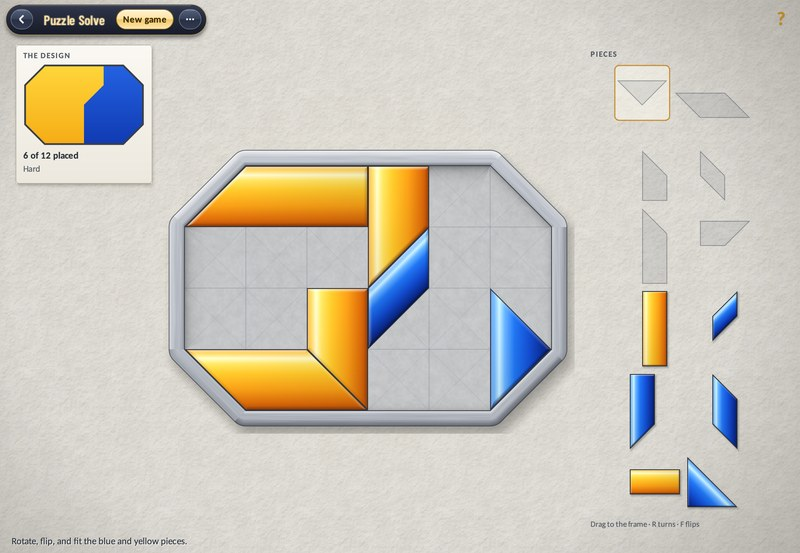
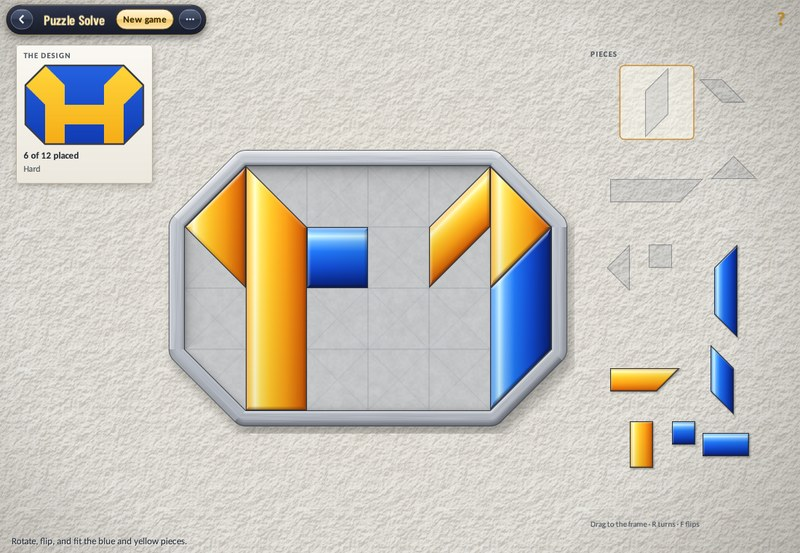
Draw Puzzle Solve's picture first, then cut it
A design is now grown as a yellow figure on blue, usually with a mirror (or a
half or quarter turn, or the diagonal) so it reads as an emblem, its stepped
corners filled or cut on the diagonal. The frame is then cut along the picture,
one colour per piece. Plain splits, bare stripes and crumbs are refused. The
tangram keeps its own cut and colouring; games take about 0.3 ms to deal.

diff --git a/shared/puzzles/puzzles.cpp b/shared/puzzles/puzzles.cpp
@@ -1088,13 +1088,6 @@ std::vector<Point2> PuzzleGame::solve_frame() const {
                              atom % 4});
     return solve_outline(cells);
 }
-// A Puzzle Solve game is a real tiling. The generator picks a frame, cuts it into pieces of
-// one family by merging neighboring half squares (or whole cells) while the merged piece
-// remains a shape of that family, colors a connected group of pieces yellow and the rest
-// blue, and turns every piece to a new orientation for the tray. The cut itself is the
-// witness: each piece's tray shape, turned by its witness orientation, lands exactly where
-// it was cut. Easy games are short lessons in one idea each: turning, mirroring, or
-// slanted cuts. Medium has six to eight pieces; Hard nine to twelve in larger frames.
 namespace {
 // Orders piece numbers by size, smallest first; equal sizes keep their order.
 struct SmallerPiece {
@@ -1125,16 +1118,93 @@ int bit_count(int mask) {
         ++bits;
     return bits;
 }
+// The symmetries a design can have, as maps of atoms: mirrored left to right, top to
+// bottom, both (a half turn), a quarter turn and a mirror in the diagonal. The last two
+// need a square frame.
+enum SolveSymmetry { mirror_x = 0, mirror_y = 1, half_turn = 2, quarter_turn = 3, diagonal = 4 };
+int map_atom(int atom, int symmetry, int columns, int rows) {
+    const int cell = atom / 4, wedge = atom % 4;
+    const int x = cell % columns, y = cell / columns;
+    // wedges: 0 top, 1 right, 2 bottom, 3 left
+    switch (symmetry) {
+    case mirror_x: {
+        const int flipped[] = {0, 3, 2, 1};
+        return (y * columns + columns - 1 - x) * 4 + flipped[wedge];
+    }
+    case mirror_y: {
+        const int flipped[] = {2, 1, 0, 3};
+        return ((rows - 1 - y) * columns + x) * 4 + flipped[wedge];
+    }
+    case half_turn:
+        return ((rows - 1 - y) * columns + columns - 1 - x) * 4 + (wedge + 2) % 4;
+    case quarter_turn:
+        return (x * columns + columns - 1 - y) * 4 + (wedge + 1) % 4;
+    default: {
+        const int flipped[] = {3, 2, 1, 0};
+        return (x * columns + y) * 4 + flipped[wedge];
+    }
+    }
+}
+// Whether the frame looks the same under a symmetry, so a design can share it.
+bool frame_keeps(int symmetry, int columns, int rows, const std::vector<bool>& inside) {
+    if ((symmetry == quarter_turn || symmetry == diagonal) && columns != rows)
+        return false;
+    for (int a = 0; a < columns * rows * 4; ++a)
+        if (inside[static_cast<std::size_t>(a)] !=
+            inside[static_cast<std::size_t>(map_atom(a, symmetry, columns, rows))])
+            return false;
+    return true;
+}
+// Atoms joined across an edge, counted once each: how long the picture's outline is.
+int outline_length(const std::vector<int>& colour, int columns, int rows) {
+    int length = 0;
+    for (int a = 0; a < columns * rows * 4; ++a) {
+        if (!colour[static_cast<std::size_t>(a)])
+            continue;
+        for (int n : atom_neighbors(a, columns, rows))
+            if (n > a && colour[static_cast<std::size_t>(n)] &&
+                colour[static_cast<std::size_t>(n)] != colour[static_cast<std::size_t>(a)])
+                ++length;
+    }
+    return length;
+}
+// The connected areas of each colour: how many, and the smallest one's size in atoms.
+void colour_areas(const std::vector<int>& colour, int columns, int rows, int& areas, int& smallest) {
+    std::vector<bool> seen(colour.size(), false);
+    areas = 0;
+    smallest = 1 << 20;
+    for (int a = 0; a < static_cast<int>(colour.size()); ++a) {
+        if (!colour[static_cast<std::size_t>(a)] || seen[static_cast<std::size_t>(a)])
+            continue;
+        ++areas;
+        int size = 0;
+        std::vector<int> stack{a};
+        seen[static_cast<std::size_t>(a)] = true;
+        while (!stack.empty()) {
+            const int at = stack.back();
+            stack.pop_back();
+            ++size;
+            for (int n : atom_neighbors(at, columns, rows))
+                if (n >= 0 && !seen[static_cast<std::size_t>(n)] &&
+                    colour[static_cast<std::size_t>(n)] == colour[static_cast<std::size_t>(a)]) {
+                    seen[static_cast<std::size_t>(n)] = true;
+                    stack.push_back(n);
+                }
+        }
+        smallest = std::min(smallest, size);
+    }
+}
 } // namespace
 void PuzzleGame::shuffle_values(std::vector<int>& values) {
     for (int i = static_cast<int>(values.size()) - 1; i > 0; --i)
         std::swap(values[static_cast<std::size_t>(i)],
                   values[static_cast<std::size_t>(random(i + 1))]);
 }
-// A Puzzle Solve game is a real tiling. The generator picks a frame, cuts it into pieces of
-// one family by merging neighboring half squares (or whole cells) while each merged piece
-// remains a shape of that family, colors a connected group of pieces yellow and the rest
-// blue, and turns every piece to a new orientation for the tray. The cut is the witness:
+// A Puzzle Solve game is a real tiling. The generator picks a frame, draws a yellow figure
+// on blue (design_solve), cuts the frame into pieces of one family by merging neighboring
+// half squares (or whole cells) of one colour while each merged piece remains a shape of
+// that family, and turns every piece to a new orientation for the tray. (The tangram keeps
+// its own cut and has a connected group of its pieces coloured yellow.) The cut is the witness:
 // each tray shape, turned by its witness orientation, lands exactly where it was cut.
 // Easy games are short lessons in one idea each: turning, mirroring, or slanted cuts.
 // Medium cuts six to eight pieces; Hard nine to twelve, mostly in larger frames.
@@ -1191,6 +1261,152 @@ bool PuzzleGame::generate_solve() {
                   std::to_string(state.aux[93]) + " pieces.";
     return true;
 }
+// A picture worth rebuilding: a yellow figure on blue (atoms 2 and 1; 0 outside the frame).
+// It is grown cell by cell from one or two seeds, the same everywhere a chosen symmetry
+// carries it (a mirror, both mirrors, a half or quarter turn, the diagonal), and its
+// stepped corners are then filled or cut on the diagonal, the same way all round so the
+// symmetry holds. Pictures that are a plain split, scattered into crumbs or nearly one
+// colour are refused, and the caller draws again.
+bool PuzzleGame::design_solve(int columns, int rows, const std::vector<bool>& inside,
+                              bool whole, std::vector<int>& colour) {
+    const int cells = columns * rows, atoms = cells * 4;
+    // The symmetry: usually a mirror, as most emblems have; sometimes a turn or none.
+    std::vector<int> symmetries;
+    const int roll = random(20);
+    if (roll < 8)
+        symmetries = {mirror_x};
+    else if (roll < 10)
+        symmetries = {mirror_x, mirror_y};
+    else if (roll < 12)
+        symmetries = {half_turn};
+    else if (roll < 15)
+        symmetries = {quarter_turn};
+    else if (roll < 17)
+        symmetries = {diagonal};
+    for (int symmetry : symmetries)
+        if (!frame_keeps(symmetry, columns, rows, inside))
+            symmetries = {mirror_x};
+    if (!symmetries.empty() && !frame_keeps(symmetries[0], columns, rows, inside))
+        symmetries.clear();
+    // Cells, and each cell's orbit under the symmetry.
+    std::vector<bool> present(static_cast<std::size_t>(cells), false);
+    int frame_atoms = 0;
+    for (int a = 0; a < atoms; ++a)
+        if (inside[static_cast<std::size_t>(a)]) {
+            present[static_cast<std::size_t>(a / 4)] = true;
+            ++frame_atoms;
+        }
+    std::vector<bool> yellow(static_cast<std::size_t>(cells), false);
+    const double target = (36 + random(20)) / 100.0;
+    int yellow_atoms = 0;
+    const int seeds = random(10) < 7 ? 1 : 2;
+    for (int round = 0; round < 64 && yellow_atoms < target * frame_atoms; ++round) {
+        // A seed anywhere, or a cell beside the figure, liked more for each yellow side.
+        std::vector<int> choices;
+        for (int c = 0; c < cells; ++c) {
+            if (!present[static_cast<std::size_t>(c)] || yellow[static_cast<std::size_t>(c)])
+                continue;
+            const int x = c % columns, y = c / columns;
+            int sides = 0;
+            sides += x > 0 && yellow[static_cast<std::size_t>(c - 1)];
+            sides += x + 1 < columns && yellow[static_cast<std::size_t>(c + 1)];
+            sides += y > 0 && yellow[static_cast<std::size_t>(c - columns)];
+            sides += y + 1 < rows && yellow[static_cast<std::size_t>(c + columns)];
+            const bool seeding = round < seeds;
+            if (seeding || sides > 0)
+                for (int w = 0; w < (seeding ? 1 : sides * sides); ++w)
+                    choices.push_back(c);
+        }
+        if (choices.empty())
+            break;
+        std::vector<int> orbit{choices[static_cast<std::size_t>(random(static_cast<int>(choices.size())))] * 4};
+        for (std::size_t i = 0; i < orbit.size(); ++i)
+            for (int symmetry : symmetries) {
+                const int image = map_atom(orbit[i], symmetry, columns, rows) / 4 * 4;
+                if (std::find(orbit.begin(), orbit.end(), image) == orbit.end())
+                    orbit.push_back(image);
+            }
+        for (int atom : orbit) {
+            if (yellow[static_cast<std::size_t>(atom / 4)])
+                continue;
+            yellow[static_cast<std::size_t>(atom / 4)] = true;
+            for (int w = 0; w < 4; ++w)
+                yellow_atoms += inside[static_cast<std::size_t>(atom + w)] ? 1 : 0;
+        }
+    }
+    colour.assign(static_cast<std::size_t>(atoms), 0);
+    for (int a = 0; a < atoms; ++a)
+        if (inside[static_cast<std::size_t>(a)])
+            colour[static_cast<std::size_t>(a)] = yellow[static_cast<std::size_t>(a / 4)] ? 2 : 1;
+    // The diagonal corners: a blue cell in a yellow nook takes the nook's half (filled),
+    // and a yellow cell standing out at a corner loses that half (cut). Whole-cell pieces
+    // keep the steps.
+    const int style = whole ? 0 : 1 + random(3);
+    const std::vector<int> before = colour;
+    for (int c = 0; c < cells && style; ++c) {
+        bool full = true;
+        for (int w = 0; w < 4; ++w)
+            full = full && inside[static_cast<std::size_t>(c * 4 + w)];
+        if (!full)
+            continue;
+        const int x = c % columns, y = c / columns;
+        // the colour across each side (0 off the frame), top, right, bottom, left
+        int side[4];
+        const int across[4] = {y > 0 ? (c - columns) * 4 + 2 : -1, x + 1 < columns ? (c + 1) * 4 + 3 : -1,
+                               y + 1 < rows ? (c + columns) * 4 : -1, x > 0 ? (c - 1) * 4 + 1 : -1};
+        for (int k = 0; k < 4; ++k)
+            side[k] = across[k] < 0 ? 0 : before[static_cast<std::size_t>(across[k])];
+        const int own = before[static_cast<std::size_t>(c * 4)];
+        for (int k = 0; k < 4; ++k) {
+            // the corner between side k and side k + 1; the other two sides face away
+            const int a = k, b = (k + 1) % 4, c2 = (k + 2) % 4, d = (k + 3) % 4;
+            const bool fill = (style & 1) && own == 1 && side[a] == 2 && side[b] == 2 &&
+                              side[c2] != 2 && side[d] != 2;
+            const bool cut = (style & 2) && own == 2 && side[a] != 2 && side[b] != 2 &&
+                             side[c2] == 2 && side[d] == 2;
+            if (fill || cut) {
+                colour[static_cast<std::size_t>(c * 4 + a)] = fill ? 2 : 1;
+                colour[static_cast<std::size_t>(c * 4 + b)] = fill ? 2 : 1;
+            }
+        }
+    }
+    // Worth rebuilding: a fair share of each colour, an outline with some shape, and no
+    // crumbs too small for a piece.
+    int yellow_share = 0;
+    for (int a = 0; a < atoms; ++a)
+        yellow_share += colour[static_cast<std::size_t>(a)] == 2;
+    const double share = static_cast<double>(yellow_share) / frame_atoms;
+    if (share < .28 || share > .62)
+        return false;
+    const int length = outline_length(colour, columns, rows);
+    if (length < columns + rows + (cells > 9 ? 2 : 0) || length > 3 * (columns + rows))
+        return false;
+    int areas = 0, smallest = 0;
+    colour_areas(colour, columns, rows, areas, smallest);
+    if (areas > 6 || smallest < 4)
+        return false;
+    // Not just stripes: some row and some column of the frame holds both colours.
+    bool mixed_row = false, mixed_column = false;
+    for (int y = 0; y < rows; ++y)
+        for (int x = 0; x < columns; ++x)
+            for (int w = 0; w < 4; ++w) {
+                const int a = (y * columns + x) * 4 + w;
+                const int here = colour[static_cast<std::size_t>(a)];
+                if (!here)
+                    continue;
+                for (int x2 = 0; x2 < columns && !mixed_row; ++x2)
+                    for (int w2 = 0; w2 < 4; ++w2) {
+                        const int other = colour[static_cast<std::size_t>((y * columns + x2) * 4 + w2)];
+                        mixed_row = mixed_row || (other && other != here);
+                    }
+                for (int y2 = 0; y2 < rows && !mixed_column; ++y2)
+                    for (int w2 = 0; w2 < 4; ++w2) {
+                        const int other = colour[static_cast<std::size_t>((y2 * columns + x) * 4 + w2)];
+                        mixed_column = mixed_column || (other && other != here);
+                    }
+            }
+    return mixed_row && mixed_column;
+}
 bool PuzzleGame::cut_solve(int frame, int family, int count, int lesson) {
     const SolveFrameShape shape = solve_frame_shape(frame);
     const int columns = shape.columns, rows = shape.rows, atoms = columns * rows * 4;
@@ -1203,7 +1419,14 @@ bool PuzzleGame::cut_solve(int frame, int family, int count, int lesson) {
         frame_atoms += inside[static_cast<std::size_t>(a)] ? 1 : 0;
     }
     const int max_atoms = std::clamp(frame_atoms * 2 / count, 8, 32);
+    std::vector<int> design;
     for (int attempt = 0; attempt < 400; ++attempt) {
+        // The picture comes first and the cut follows it; the tangram keeps its own cut
+        // and is coloured afterwards.
+        design.clear();
+        if (family != tangram && attempt < 300 &&
+            !design_solve(columns, rows, inside, family == blocks, design))
+            continue;
         // Units: whole cells for blocks, half squares otherwise; a cell crossed by the
         // frame's edge keeps its inside half. The tangram is cut once and for all.
         std::vector<std::vector<int>> pieces;
@@ -1212,8 +1435,22 @@ bool PuzzleGame::cut_solve(int frame, int family, int count, int lesson) {
             for (int w = 0; w < 4; ++w)
                 if (inside[static_cast<std::size_t>(cell * 4 + w)])
                     present.push_back(cell * 4 + w);
+            const bool two_colours =
+                present.size() == 4 &&
+                design[static_cast<std::size_t>(cell * 4)] != design[static_cast<std::size_t>(cell * 4 + 2)];
+            const bool split = present.size() == 4 &&
+                               (two_colours || design[static_cast<std::size_t>(cell * 4)] !=
+                                                   design[static_cast<std::size_t>(cell * 4 + 1)] ||
+                                design[static_cast<std::size_t>(cell * 4)] !=
+                                    design[static_cast<std::size_t>(cell * 4 + 3)]);
             if (present.size() == 4 && family == blocks) {
                 pieces.push_back(present);
+            } else if (split) {
+                // The picture halves this cell on a diagonal: each half keeps its colour.
+                const bool top_with_right = design[static_cast<std::size_t>(cell * 4)] ==
+                                            design[static_cast<std::size_t>(cell * 4 + 1)];
+                pieces.push_back({cell * 4, cell * 4 + (top_with_right ? 1 : 3)});
+                pieces.push_back({cell * 4 + 2, cell * 4 + (top_with_right ? 3 : 1)});
             } else if (present.size() == 4) {
                 // Top with right and bottom with left, or top with left and right with bottom.
                 const int turn = random(2);
@@ -1263,6 +1500,10 @@ bool PuzzleGame::cut_solve(int frame, int family, int count, int lesson) {
                 for (int b : partners) {
                     std::vector<int> joined = pieces[static_cast<std::size_t>(a)];
                     const std::vector<int>& other = pieces[static_cast<std::size_t>(b)];
+                    // a piece is one colour of the picture
+                    if (!design.empty() &&
+                        design[static_cast<std::size_t>(joined[0])] != design[static_cast<std::size_t>(other[0])])
+                        continue;
                     joined.insert(joined.end(), other.begin(), other.end());
                     if (!allowed_piece(joined, family, columns, max_atoms))
                         continue;
@@ -1278,20 +1519,23 @@ bool PuzzleGame::cut_solve(int frame, int family, int count, int lesson) {
             if (!merged)
                 break;
         }
-        if (live != count)
+        // A picture may leave one piece more than asked, never more than the level allows
+        // (Easy five, Medium eight, Hard twelve).
+        const int most = count <= 5 ? 5 : count <= 8 ? 8 : 12;
+        if (live != count && !(!design.empty() && live == count + 1 && live <= most))
             continue;
         std::vector<std::vector<int>> cut;
         for (const std::vector<int>& p : pieces)
             if (!p.empty())
                 cut.push_back(p);
-        if (!finish_solve(cut, columns, rows, lesson))
+        if (!finish_solve(cut, columns, rows, lesson, design))
             continue;
         state.aux[88] = columns;
         state.aux[89] = rows;
         state.aux[90] = frame;
         state.aux[91] = lesson;
         state.aux[92] = family;
-        state.aux[93] = count;
+        state.aux[93] = live;
         state.aux[95] = 4;
         return true;
     }
@@ -1300,7 +1544,7 @@ bool PuzzleGame::cut_solve(int frame, int family, int count, int lesson) {
 // Checks a cut against its lesson, colors it, and records the picture, the tray shapes
 // and the witness.
 bool PuzzleGame::finish_solve(const std::vector<std::vector<int>>& cut, int columns, int rows,
-                              int lesson) {
+                              int lesson, const std::vector<int>& design) {
     const int count = static_cast<int>(cut.size());
     if (count < 2 || count > 12)
         return false;
@@ -1337,7 +1581,17 @@ bool PuzzleGame::finish_solve(const std::vector<std::vector<int>>& cut, int colu
     const int all = (1 << count) - 1;
     const double low = lesson >= 0 ? .25 : .3, high = lesson >= 0 ? .75 : .6;
     std::vector<int> colorings;
-    for (int mask = 1; mask < all; ++mask) {
+    if (!design.empty()) {
+        // The picture was drawn first: each piece already has its colour.
+        int mask = 0;
+        for (int p = 0; p < count; ++p)
+            if (design[static_cast<std::size_t>(cut[static_cast<std::size_t>(p)][0])] == 2)
+                mask |= 1 << p;
+        if (mask == 0 || mask == all)
+            return false;
+        colorings.push_back(mask);
+    }
+    for (int mask = 1; mask < all && design.empty(); ++mask) {
         const int yellow_pieces = bit_count(mask);
         if (yellow_pieces < 2 || count - yellow_pieces < 2)
             continue;

diff --git a/shared/puzzles/puzzles.hpp b/shared/puzzles/puzzles.hpp
@@ -144,9 +144,11 @@ class PuzzleGame {
     void thaw();
     void generate_atoms();
     bool generate_solve();
+    bool design_solve(int columns, int rows, const std::vector<bool>& inside, bool whole,
+                      std::vector<int>& colour);
     bool cut_solve(int frame, int family, int count, int lesson);
     bool finish_solve(const std::vector<std::vector<int>>& cut, int columns, int rows,
-                      int lesson);
+                      int lesson, const std::vector<int>& design);
     void shuffle_values(std::vector<int>& values);
 };
 const char* puzzle_title(PuzzleKind kind);
